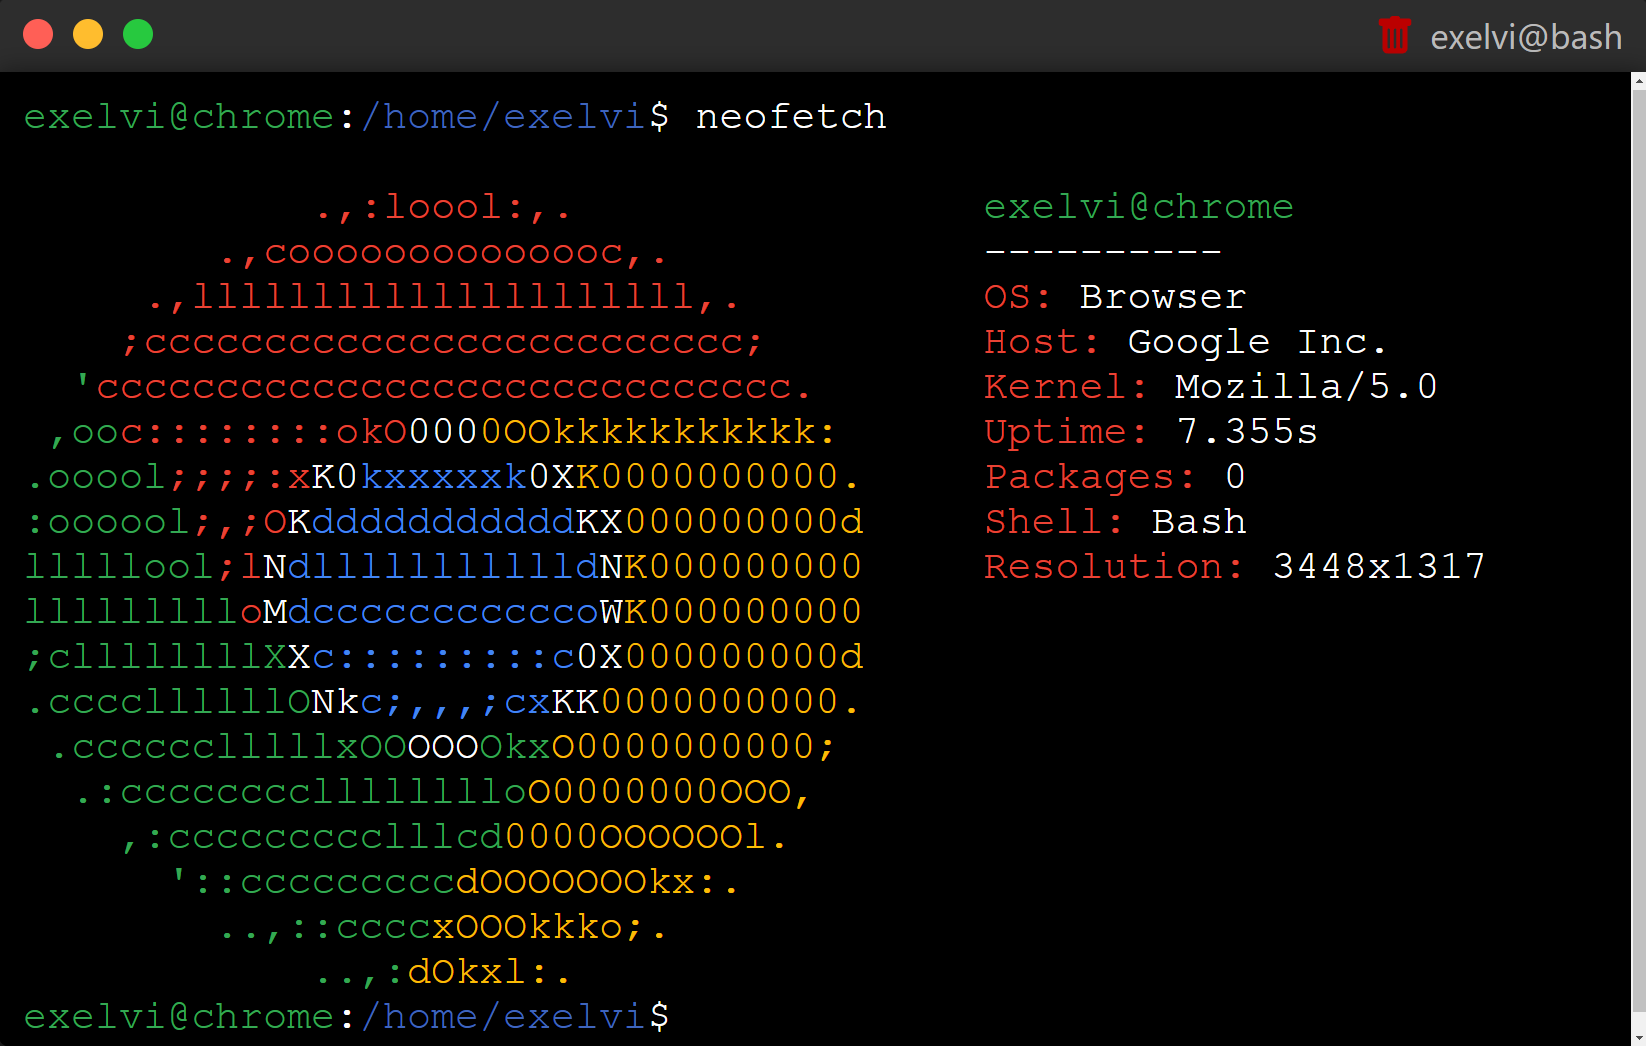
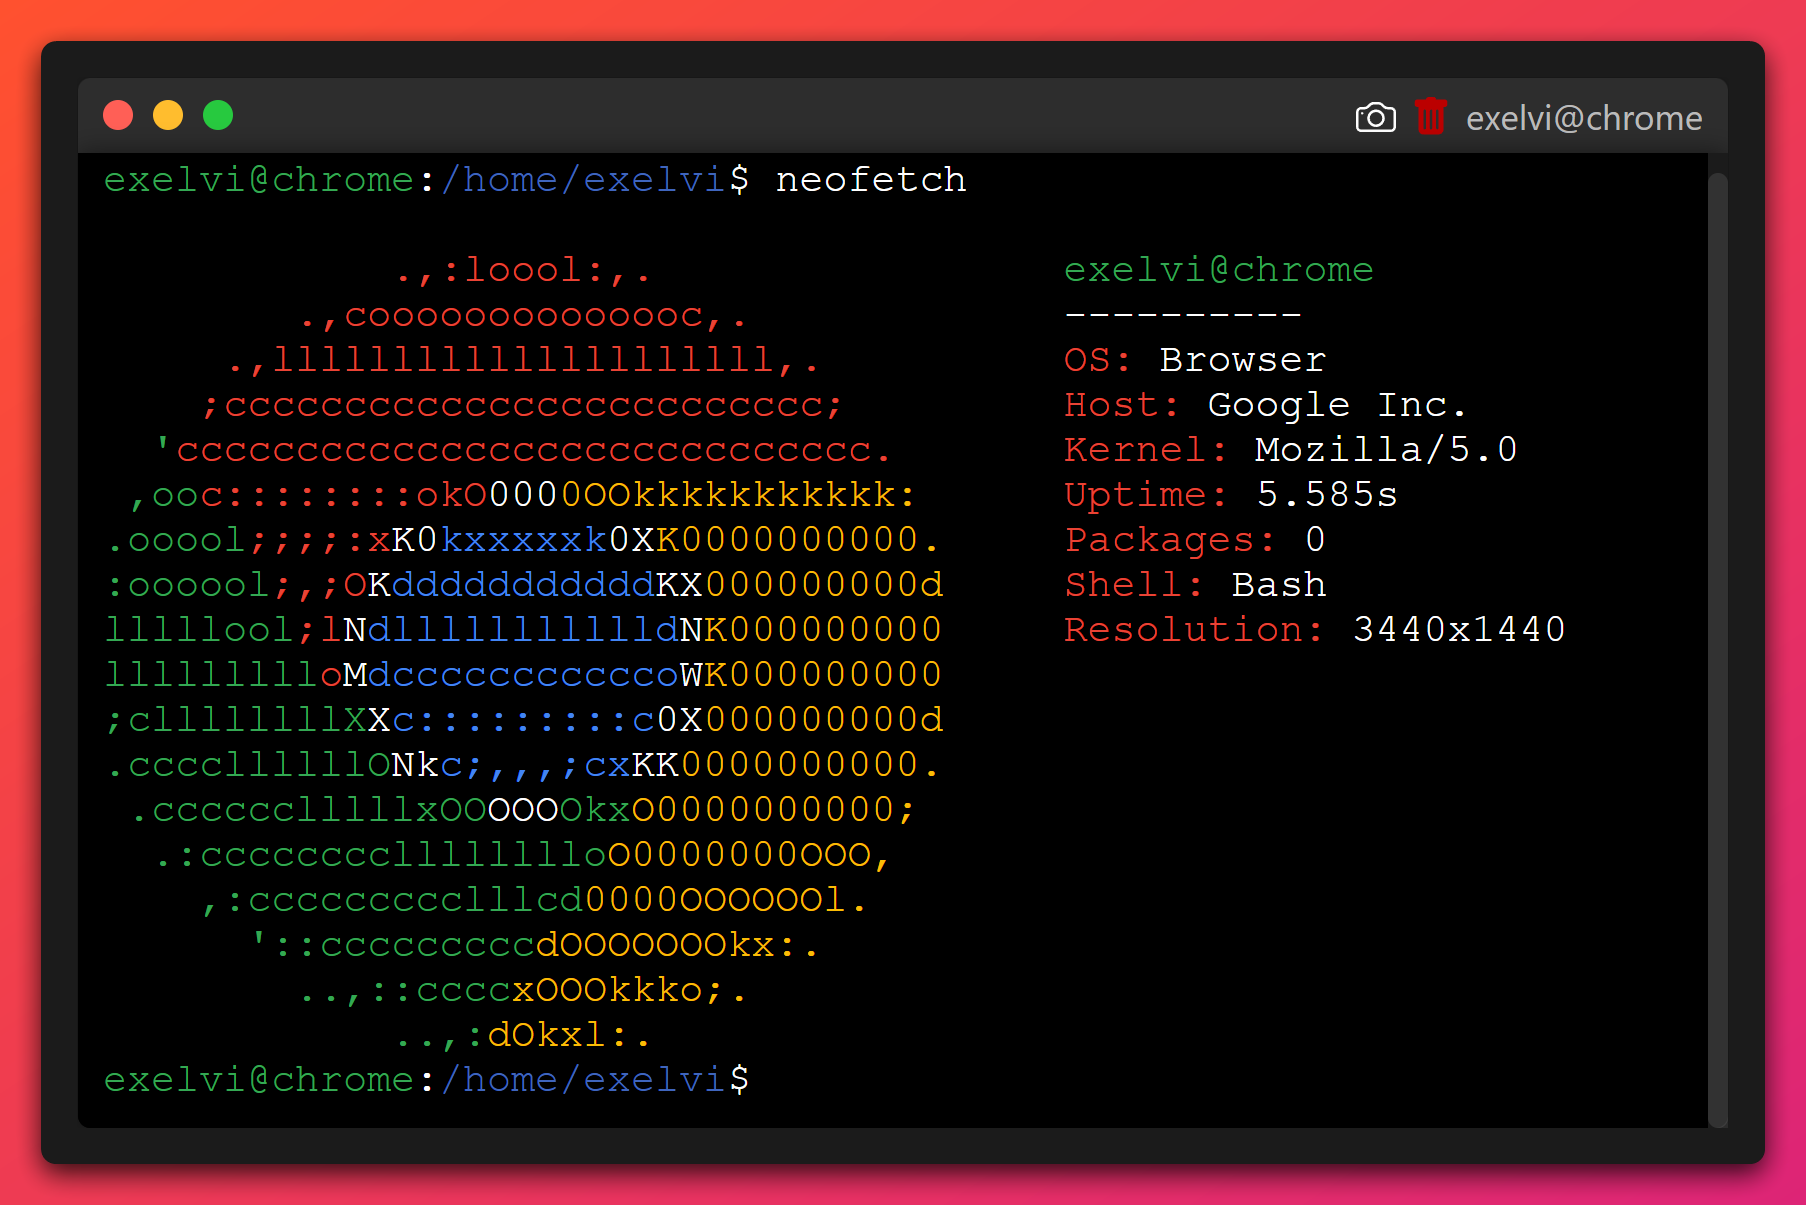
chore: Refactor CSS styles and add screenshot button

diff --git a/js/script.js b/js/script.js
@@ -93,11 +93,12 @@ const asciiColors = {
 }
 
 var mode = "normal"
-
+let realPrompt = prompt
 document.addEventListener('DOMContentLoaded', function () {
     const inputElement = document.querySelector('.input');
     const outputElement = document.querySelector('.output');
     const terminalElement = document.querySelector('.terminal');
+
     const prompt = document.getElementById('prompt');
     const barTitle = document.getElementById('bar-title');
 
@@ -121,7 +122,7 @@ document.addEventListener('DOMContentLoaded', function () {
     }
 
 
-    let fileSystem = {
+    let fileSystem = { 
         '/': {
             home: {
                 exelvi: {
@@ -129,16 +130,16 @@ document.addEventListener('DOMContentLoaded', function () {
                     desktop: {
                         "about.txt": "<!DOCTYPE html>\n<span color='blue'>Hello, I'm exelvi</span>\n<span color='red'>I'm a developer</span>\n<span color='green'>I live in Veneto, Italy</span>\n\n\n<span hidden>Pssss... Also try to type 'color enable' and reopen me </span>",
                         "favotite.txt": "<!DOCTYPE html>\n<span color='#f7de1f'>Javascript</span>\n<span color='#0186d0'>VSCode</span>\n<span color='#5865F2'>Blurple</span>\n\n\n<span hidden>Pssss... Also try to type 'color enable' and reopen me </span>",
-                        "links.txt": `<!DOCTYPE html>
+                        "links.txt": `<!DOCTYPE html>   
 
 <a target="_blank" rel="noopener noreferrer" href="https://exelvi.github.io">My website</a>
 <a target="_blank" rel="noopener noreferrer" href="https://github.com/EXELVI">My GitHub</a>
 <a target="_blank" rel="noopener noreferrer" href="https://www.instagram.com/exelviofficial/">My Instagram</a>
 
-\n`,
-
+\n`, 
                     },
-                    documents: { "troll.txt": "cat: troll.txt: Path not found" }
+                    documents: { "troll.txt": "cat: troll.txt: Path not found",  "player.sh": `javascript new Audio(realPrompt("Song URL (MP3 or other file)")).play();
+echo You can't stop it :)` }
                 }
             },
             root: {
@@ -386,6 +387,29 @@ document.addEventListener('DOMContentLoaded', function () {
         }
     }
 
+    const screenshotButton = document.getElementById('screenshot');
+    screenshotButton.addEventListener('click', function () {
+        var element = document.getElementById('terminal-body');
+
+        document.getElementById("terminal-body").style.borderBottomRightRadius = "0";
+        document.getElementById("terminal-body").style.borderBottomLeftRadius = "0";
+
+        html2canvas(element).then(function (canvas) {
+            var image = canvas.toDataURL('image/png');
+
+            var link = document.createElement('a');
+            link.href = image;
+            link.download = 'screenshot-' + new Date().toISOString().slice(0, 19).replace(/:/g, '-') + '.png';
+
+            link.click();
+
+            document.getElementById("terminal-body").style.borderBottomRightRadius = "5px";
+            document.getElementById("terminal-body").style.borderBottomLeftRadius = "5px";
+        });
+
+
+    });
+
 
     let javascriptHistory = ""
 
@@ -454,11 +478,11 @@ document.addEventListener('DOMContentLoaded', function () {
         tree: function (path, indent = '') {
             let treeOutput = '';
             const target = navigateToPath(path);
-            
+
             if (typeof target !== 'object') {
                 throw new Error('Path not found');
             }
-    
+
             const keys = Object.keys(target);
             keys.forEach((key, index) => {
                 const isLast = index === keys.length - 1;
@@ -467,7 +491,7 @@ document.addEventListener('DOMContentLoaded', function () {
                     treeOutput += this.tree(`${path}/${key}`, indent + (isLast ? '    ' : '│   '));
                 }
             });
-    
+
             return treeOutput;
         }
     };
@@ -1624,6 +1648,7 @@ Options:
                                 fileSystemFunctions.remove(user.home);
                                 setTimeout(() => {
                                     settings.users = settings.users.filter(u => u.name !== user.name);
+                                    localStorage.setItem('settings', JSON.stringify(settings));
                                     output.textContent += `\nDone.`
                                     outputElement.appendChild(output);
                                 }, 500);
@@ -1702,12 +1727,51 @@ Options:
                     output.textContent = `tree: ${dir}: No such file or directory`;
                 }
                 outputElement.appendChild(output);
-                
+
                 return output;
             }
-        }
+        },
+        {
+            name: "screenshot",
+            description: "Take a screenshot",
+            root: false,
+            execute: function () {
+                var element = document.getElementById('terminal-body');
 
-        
+                document.getElementById("terminal-body").style.borderBottomRightRadius = "0";
+                document.getElementById("terminal-body").style.borderBottomLeftRadius = "0";
+                inputElement.value = '';
+                prompt.textContent = '';
+
+                html2canvas(element).then(function (canvas) {
+                    var image = canvas.toDataURL('image/png');
+
+                    var link = document.createElement('a');
+                    link.href = image;
+                    link.download = 'screenshot-' + new Date().toISOString().slice(0, 19).replace(/:/g, '-') + '.png';
+
+                    link.click();
+
+                    document.getElementById("terminal-body").style.borderBottomRightRadius = "5px";
+                    document.getElementById("terminal-body").style.borderBottomLeftRadius = "5px";
+                    if (settings.colors) {
+                        prompt.innerHTML = `<span style="color: ${settings.currentUser == 0 ? "#a82403" : "#34a853"}">${settings.users.find(u => u.UID == settings.currentUser).name}@${browserName}</span>:<span style="color: #3f65bd">${currentDir}</span>${settings.currentUser == 0 ? '#' : '$'}`;
+                    } else {
+                        prompt.textContent = `${settings.users.find(u => u.UID == settings.currentUser).name}@${browserName}:${currentDir}${settings.currentUser == 0 ? '#' : '$'}`;
+                    }
+                });
+            }
+        },
+        {
+            name: "man",
+            description: "Display the manual of a command",
+            root: false,
+            execute: function (input) {
+                var output = document.createElement('div');
+                var command = input.split(' ')[1];
+              
+            }
+        }
     ];
 
 

diff --git a/index.html b/index.html
@@ -41,23 +41,28 @@
 
 <body>
     <div class="app" id="terminal">
-        <div class="top-bar" id="top-bar" draggable="true">
-            <!-- Disabled (for now) 
-             <div class="resize-handle top-left"></div>
-            <div class="resize-handle top-right"></div>
-            <div class="resize-handle bottom-left"></div>
-            <div class="resize-handle bottom-right"></div>
-            -->
+        <div class="top-bar" id="top-bar" draggable="true">           
             <div class="buttons">
                 <span id="close" class="close"></span>
                 <span id="minimize" class="minimize"></span>
                 <span id="zoom" class="zoom"></span>
             </div>
-            <div id="reset" class="reset">
-                <svg xmlns="http://www.w3.org/2000/svg" width="16" height="16" fill="#bb0000" class="bi bi-trash-fill" viewBox="0 0 16 16">
-                    <path d="M2.5 1a1 1 0 0 0-1 1v1a1 1 0 0 0 1 1H3v9a2 2 0 0 0 2 2h6a2 2 0 0 0 2-2V4h.5a1 1 0 0 0 1-1V2a1 1 0 0 0-1-1H10a1 1 0 0 0-1-1H7a1 1 0 0 0-1 1zm3 4a.5.5 0 0 1 .5.5v7a.5.5 0 0 1-1 0v-7a.5.5 0 0 1 .5-.5M8 5a.5.5 0 0 1 .5.5v7a.5.5 0 0 1-1 0v-7A.5.5 0 0 1 8 5m3 .5v7a.5.5 0 0 1-1 0v-7a.5.5 0 0 1 1 0"/>
-                </svg>
+            <div class="actionbuttons">
+                <div id="screenshot" class="action-button">
+                    <svg xmlns="http://www.w3.org/2000/svg" width="16" height="16" fill="#ffffff" class="bi bi-camera" viewBox="0 0 16 16">
+                        <path d="M15 12a1 1 0 0 1-1 1H2a1 1 0 0 1-1-1V6a1 1 0 0 1 1-1h1.172a3 3 0 0 0 2.12-.879l.83-.828A1 1 0 0 1 6.827 3h2.344a1 1 0 0 1 .707.293l.828.828A3 3 0 0 0 12.828 5H14a1 1 0 0 1 1 1zM2 4a2 2 0 0 0-2 2v6a2 2 0 0 0 2 2h12a2 2 0 0 0 2-2V6a2 2 0 0 0-2-2h-1.172a2 2 0 0 1-1.414-.586l-.828-.828A2 2 0 0 0 9.172 2H6.828a2 2 0 0 0-1.414.586l-.828.828A2 2 0 0 1 3.172 4z"/>
+                        <path d="M8 11a2.5 2.5 0 1 1 0-5 2.5 2.5 0 0 1 0 5m0 1a3.5 3.5 0 1 0 0-7 3.5 3.5 0 0 0 0 7M3 6.5a.5.5 0 1 1-1 0 .5.5 0 0 1 1 0"/>
+                      </svg>
+                </div>
+             
+                <div id="reset" class="action-button">
+                    <svg xmlns="http://www.w3.org/2000/svg" width="16" height="16" fill="#bb0000" class="bi bi-trash-fill" viewBox="0 0 16 16">
+                        <path d="M2.5 1a1 1 0 0 0-1 1v1a1 1 0 0 0 1 1H3v9a2 2 0 0 0 2 2h6a2 2 0 0 0 2-2V4h.5a1 1 0 0 0 1-1V2a1 1 0 0 0-1-1H10a1 1 0 0 0-1-1H7a1 1 0 0 0-1 1zm3 4a.5.5 0 0 1 .5.5v7a.5.5 0 0 1-1 0v-7a.5.5 0 0 1 .5-.5M8 5a.5.5 0 0 1 .5.5v7a.5.5 0 0 1-1 0v-7A.5.5 0 0 1 8 5m3 .5v7a.5.5 0 0 1-1 0v-7a.5.5 0 0 1 1 0"/>
+                    </svg>
+                </div>
             </div>
+       
+            
             <div class="title" id="bar-title">exelvi@bash</div>
         </div>
         
@@ -67,13 +72,14 @@
                 <span id="prompt" class="prompt">exelvi@bash:/$</span>
                 <input type="text" class="input" autocomplete="off" autocorrect="off" autocapitalize="off"
                     spellcheck="false">
-            </div>
+            </div>  
         </div>
         
 
     </div>
     
     <script src="js/script.js"></script>
+    <script src="https://cdnjs.cloudflare.com/ajax/libs/html2canvas/1.4.1/html2canvas.min.js"></script>
 </body>
 
 </html>

diff --git a/css/styles.css b/css/styles.css
@@ -104,12 +104,19 @@ body {
     background-color: #27c93f;
 }
 
-.reset {
+.actionbuttons {
     margin-left: auto;
-    padding-right: 6px;
     margin-top: 6px;
-    cursor: pointer;
+    display: flex;
+    align-items: center;
+    justify-content: space-between;
+    
 }
+.action-button {
+    cursor: pointer;
+    padding-right: 6px;
+}
+
 
 .title {
     color: #bbb;
@@ -127,6 +134,31 @@ body {
     border-bottom-left-radius: 5px;
     border-bottom-right-radius: 5px;
 }
+
+::-webkit-scrollbar {
+    height: .5rem;
+    width: .5rem
+  }
+
+  ::-webkit-scrollbar:horizontal {
+    height: .5rem;
+    width: .5rem
+  }
+
+  ::-webkit-scrollbar-track {
+    background-color: hsla(0, 0%, 32%, 0.336);
+  }
+
+  ::-webkit-scrollbar-thumb {
+    background-color: hsla(0, 0%, 100%, .1);
+    border-color: rgba(255, 255, 255, 1);
+    border-radius: 9999px;
+    border-width: 1px
+  }
+
+  ::-webkit-scrollbar-thumb:hover {
+    background-color: hsla(0, 0%, 100%, .3)
+  }
 
 .output {
     white-space: pre-wrap;

diff --git a/README.md b/README.md
@@ -11,6 +11,7 @@ Originally made for portfolio purposes, this project is a simple implementation 
 - File system navigation: Users can navigate through directories, list files, and perform basic file operations.
 - Command history: Users can access previously executed commands using the up and down arrow keys.
 - Resizable terminal, maximizable, and minimizable.
+- It has a screenshot button that allows you to take a screenshot of the terminal.
 
 ## Usage
 
@@ -45,6 +46,7 @@ Originally made for portfolio purposes, this project is a simple implementation 
 | `passwd` | Change user password | `passwd (username)` | Leaving out the username will change the current user's password. |
 | `pwd` | Print current directory path | `pwd` | |
 | `rm` | Delete a file or directory | `rm [file]` | |
+| `screenshot` | Take a screenshot of the terminal | `screenshot` | |
 | `sh` | Start a shell | `sh [file]` | |
 | `su` | Change user | `su (username)` | Leaving out the username will switch to the root user. |
 | `touch` | Create a new file | `touch [filename]` | There may be an easteregg :) |
